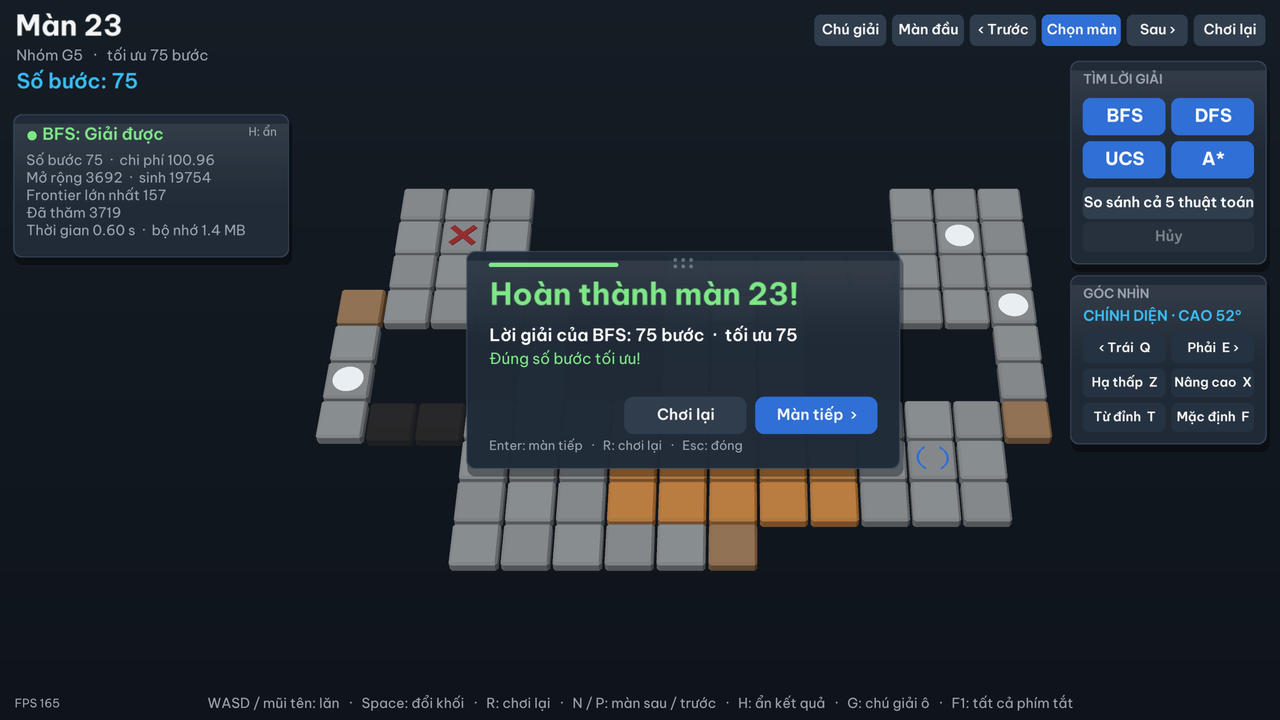
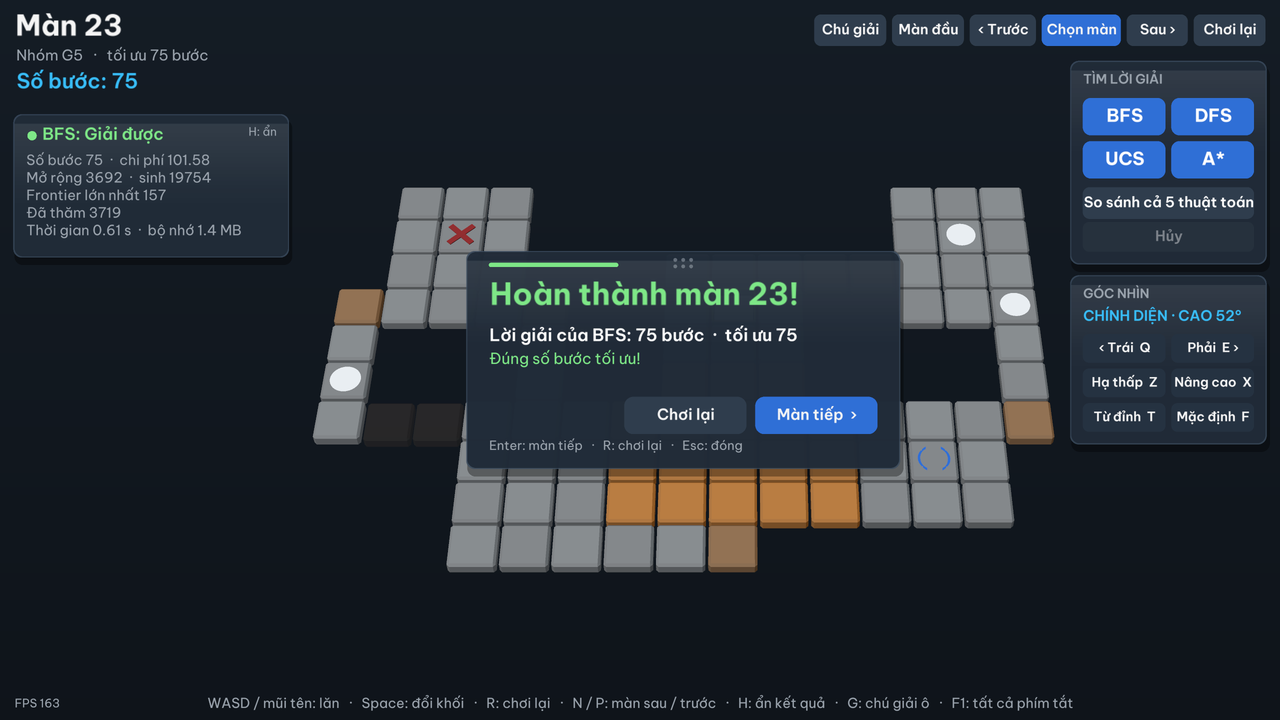
V30: chương 4 và README theo chi phí bước tách đôi 1,62 (PR #23)
- Chương 4: số liệu màn 23 (BFS 101,58; UCS và A* 100,58); ghi chú Hình 4.6–4.8 chụp
  lại sau PR #23
- Chụp lại Hình 4.6, 4.7, 4.8 (khung kết quả, bảng So sánh): DFS 1525,37; số nút mở rộng
  UCS 3755, A* (h_M) 3711
- README: thêm dòng "nằm -> đứng lên công tắc tách" vào bảng chi phí
- gui/hud.py: sửa số ví dụ trong ghi chú cột Chi phí
- Phụ lục B phần TV5: thêm dòng 31/10

diff --git a/Source/gui/hud.py b/Source/gui/hud.py
@@ -69,7 +69,7 @@ DOT_SIZE = 0.013          # chấm trạng thái trước dòng đầu của khu
 DOT_GAP = 0.022           # dòng trạng thái lùi sang phải chừng này để chừa chỗ cho chấm
 # Cột của bảng So sánh: (tiêu đề, các chuỗi dài nhất có thể hiện trong cột). Vị trí cột tính lúc dựng HUD
 # theo bề rộng thật của chữ (Hud._table_layout), nên đổi font không làm các cột dính nhau. Chi phí lẻ theo
-# hàm chi phí V13, ví dụ DFS màn 23: 1524.13.
+# hàm chi phí V13, ví dụ DFS màn 23: 1525.37.
 TABLE_COLUMNS = (("Thuật toán", ("A* (h_M)",)), ("Kết quả", ("Giải được", "Vô nghiệm", "chạy 59.9s", "Hết giờ")),
                  ("Bước", ("9999",)), ("Chi phí", ("9999.99",)), ("Mở rộng", ("999999",)), ("Giây", ("59.99",)),
                  ("MB", ("999.9",)))

diff --git a/docs/report/4-cai-dat-giao-dien.md b/docs/report/4-cai-dat-giao-dien.md
@@ -1,6 +1,6 @@
 ## 4. Cài đặt và giao diện
 
-> Bản nháp của TV5 (V30), viết bằng tiếng Việt theo thuật ngữ ở docs/06 §2. TV4 chuyển vào bản ghép (V35). Số trích dẫn theo danh mục `tai-lieu-tham-khao.md` của TV4 ([8] nhóm khóa trước, [10] Ursina, [11] Panda3D). Ảnh chụp lại ngày 31/10/2026 trên nhánh chính (sau PR #18: giao diện V21, bộ nạp màn V03, UCS, hàm chi phí V13), cửa sổ 2560 × 1440 thu về 1280 × 720; các bước đi trong ảnh lấy từ lời giải BFS và từ `rules.step()`.
+> Bản nháp của TV5 (V30), viết bằng tiếng Việt theo thuật ngữ ở docs/06 §2. TV4 chuyển vào bản ghép (V35). Số trích dẫn theo danh mục `tai-lieu-tham-khao.md` của TV4 ([8] nhóm khóa trước, [10] Ursina, [11] Panda3D). Ảnh chụp lại ngày 31/10/2026 trên nhánh chính (sau PR #18: giao diện V21, bộ nạp màn V03, UCS, hàm chi phí V13), cửa sổ 2560 × 1440 thu về 1280 × 720; các bước đi trong ảnh lấy từ lời giải BFS và từ `rules.step()`. Hình 4.6–4.8 (có cột chi phí) chụp lại sau PR #23, khi bước làm khối tách đôi tính 1,62.
 
 ### 4.1. Công nghệ
 
@@ -166,7 +166,7 @@ Mỗi lần giải có bốn kết quả, mỗi loại một thông báo và mà
 
 *Hình 4.8. Kết quả So sánh trên màn 23: BFS, UCS và A* với cả hai heuristic cùng tìm được lời giải 75 bước; DFS tìm được lời giải dài 1187 bước, đúng với việc DFS không bảo đảm đường ngắn nhất.*
 
-Nút Giải và So sánh dựng bài toán với hàm chi phí ở mục 3.3, nên cột Chi phí của cả năm thuật toán tính theo cùng một hàm (docs/04 §2): BFS cho số bước ít nhất, UCS và A* cho tổng chi phí nhỏ nhất. Ở màn 23, BFS đi 75 bước tốn 100,96, còn UCS và A* đi 75 bước khác tốn 99,96.
+Nút Giải và So sánh dựng bài toán với hàm chi phí ở mục 3.3, nên cột Chi phí của cả năm thuật toán tính theo cùng một hàm (docs/04 §2): BFS cho số bước ít nhất, UCS và A* cho tổng chi phí nhỏ nhất. Ở màn 23, BFS đi 75 bước tốn 101,58, còn UCS và A* đi 75 bước khác tốn 100,58.
 
 Thời gian và bộ nhớ trên giao diện chỉ để tham khảo, vì tiến trình con luôn bật `tracemalloc` để đo bộ nhớ, và việc này làm chậm thuật toán. Số liệu ở chương 5 lấy từ script thực nghiệm.
 

diff --git a/Source/README.md b/Source/README.md
@@ -100,6 +100,7 @@ UCS và A* dùng hàm chi phí không đồng nhất trong `bloxorz/costs.py` (c
 |---|---|
 | Đứng → nằm | 1.12 |
 | Nằm → đứng | 1.62 |
+| Nằm → đứng lên công tắc tách (khối tách đôi) | 1.62 |
 | Nằm → nằm (lăn quanh trục dài) | 1.21 |
 | Khối con 1×1×1 lăn | 1.10 |
 | Thêm khi có phần khối nằm trên ô dễ vỡ | +0.50 |
